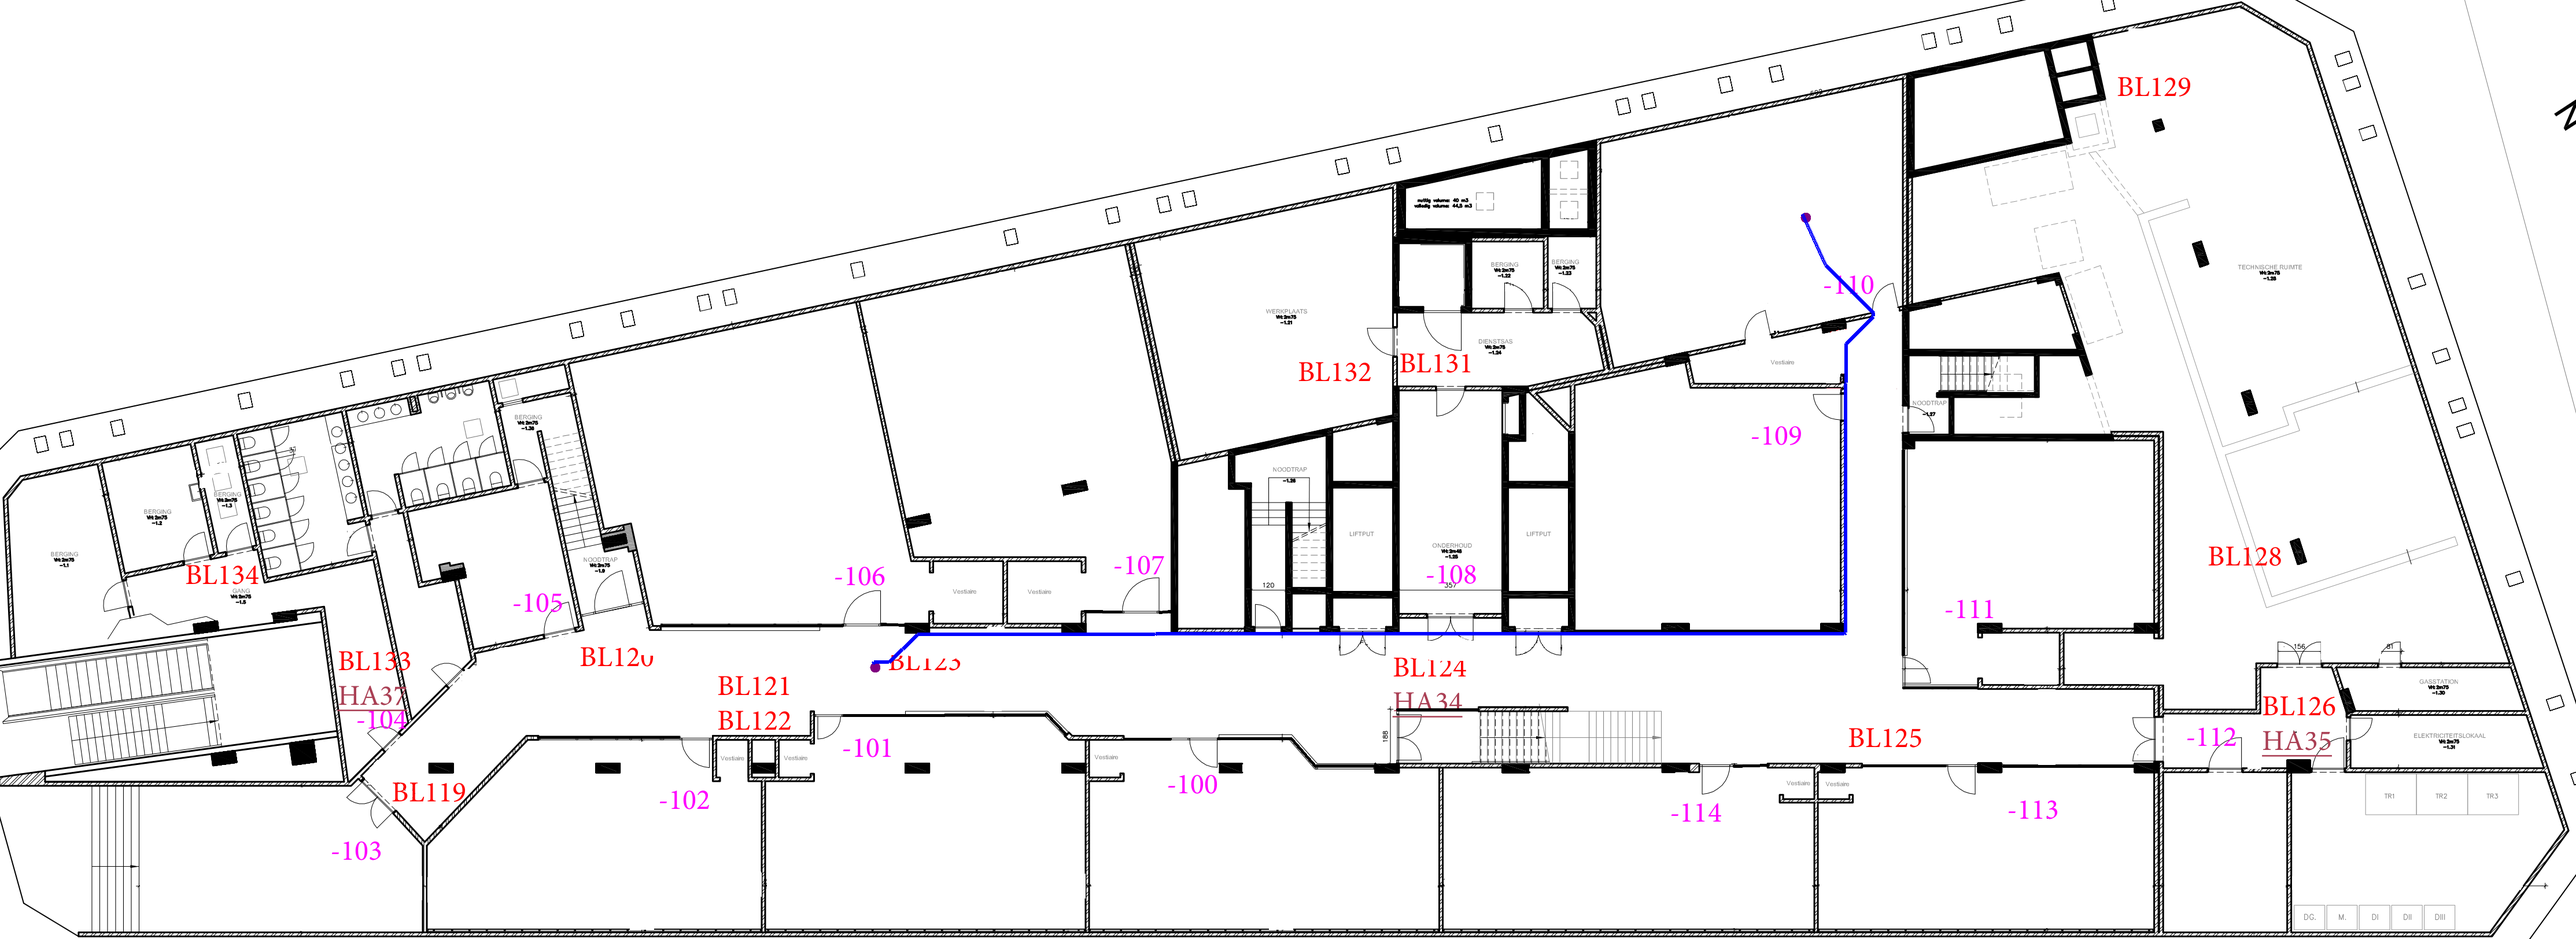
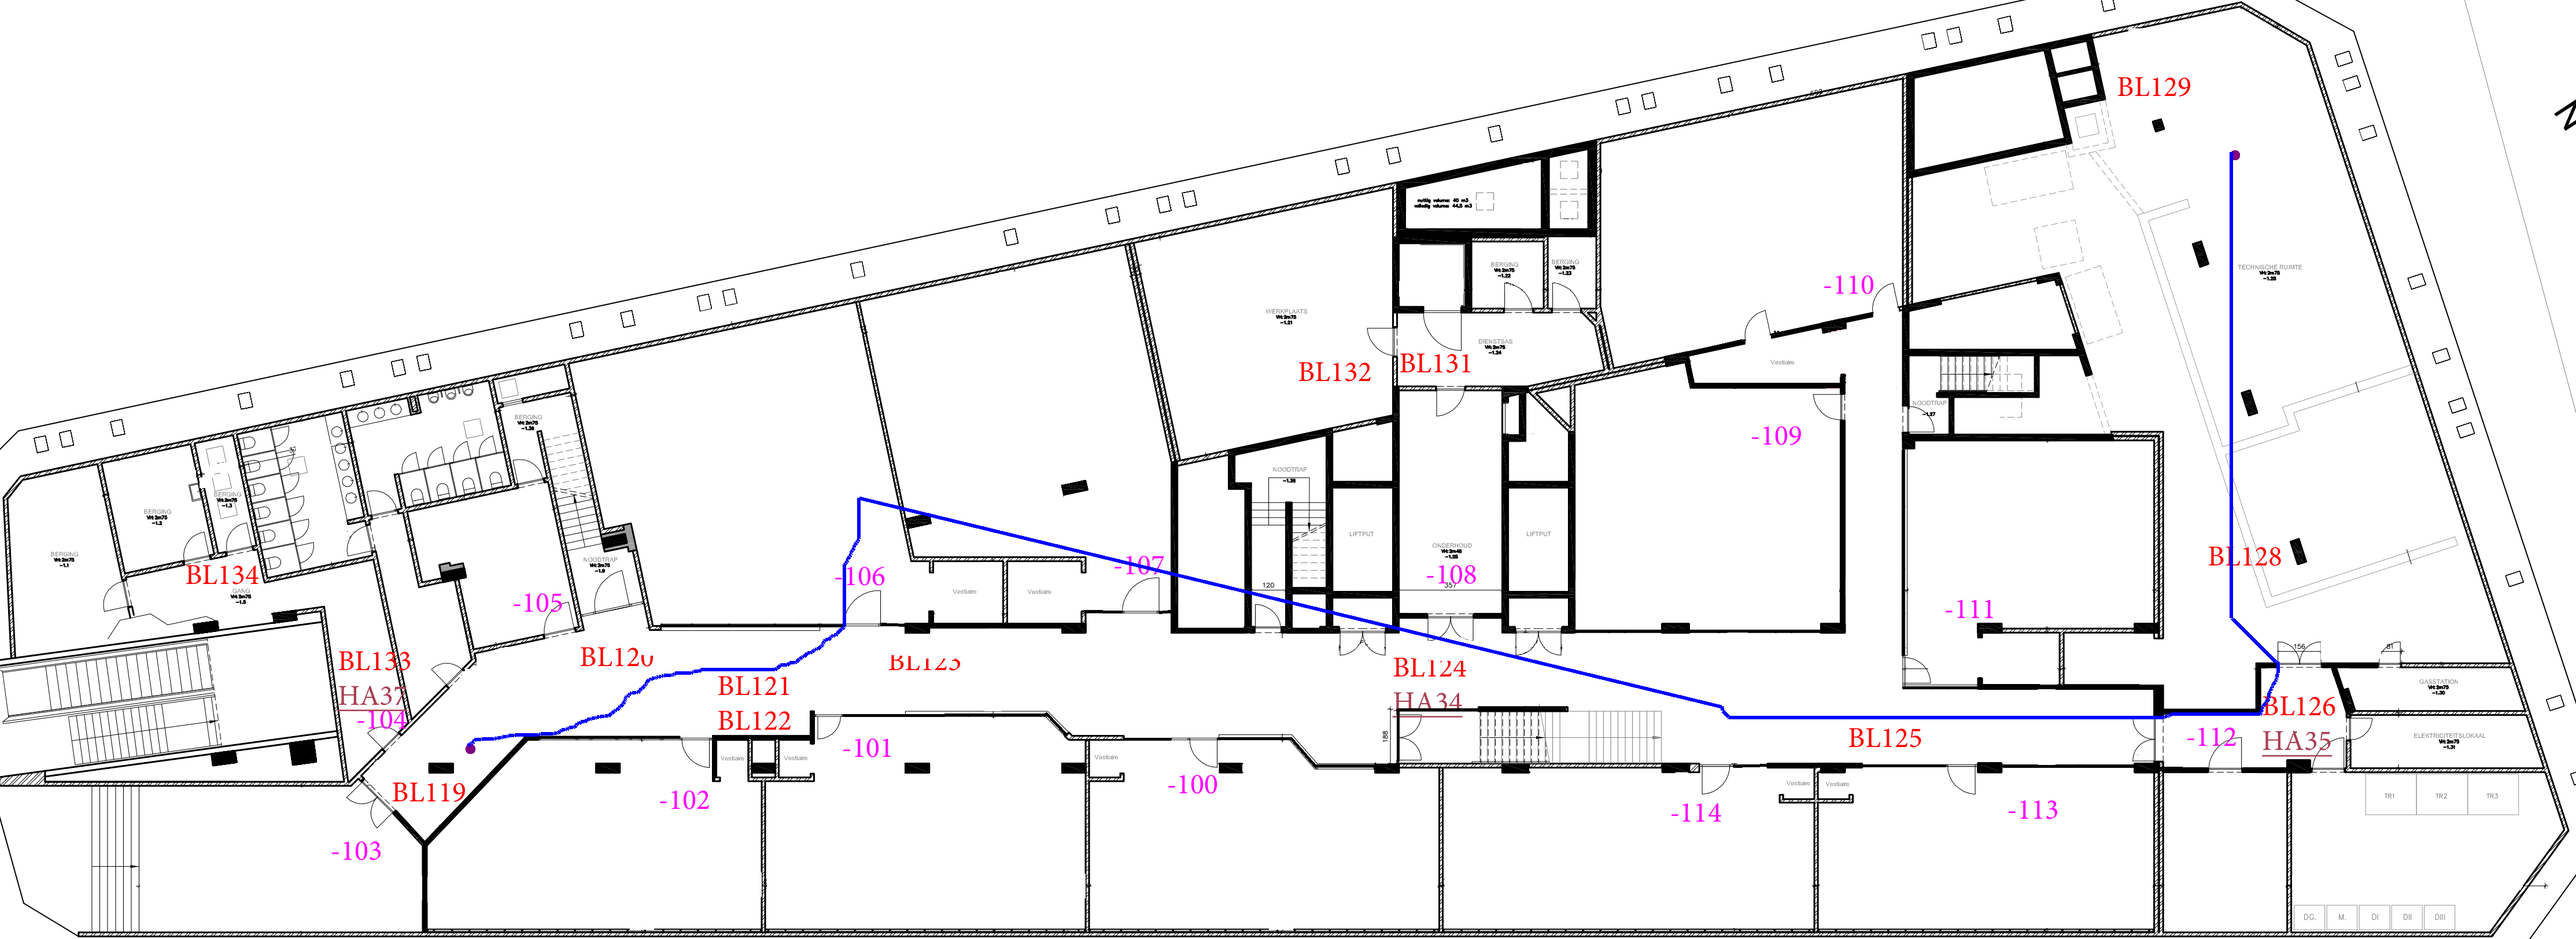
all done before room connection

diff --git a/ui/lib/Pages/Floorplan/FloorplanImage.dart b/ui/lib/Pages/Floorplan/FloorplanImage.dart
@@ -10,6 +10,7 @@ import '../../models/floorplan.dart';
 import '../../services/floorplanservice.dart';
 import '../StateHandler/StateHandler.dart';
 
+//TODO: make it so that the image doesnt always need to reload
 class FloorplanImage extends StatefulWidget {
   final String hospitalName;
   final int floorNumber;
@@ -32,17 +33,15 @@ class FloorplanImage extends StatefulWidget {
   @override
   _FloorplanImageState createState() => _FloorplanImageState();
 }
+
 class _FloorplanImageState extends State<FloorplanImage> {
-  List<Point> _path = [];
-  Point? _startPoint;
-  Point? _endPoint;
 
   Future<void> _fetchPath(Point start, Point end) async{
+    ScaffoldMessenger.of(context).showSnackBar(
+        SnackBar(content: Text('Fetching path...'), backgroundColor: Colors.green, duration: Duration(seconds: 5),)
+    );
     final response = await PathService.getPath(start, end, widget.hospitalName, widget.floorNumber );
    widget.onPathUpdated(response,widget.startPoint, widget.endPoint);
-   /* setState(() {
-      _path = response;
-    });*/
   }
 
   void _handleTap(TapDownDetails details){
@@ -85,7 +84,7 @@ class _FloorplanImageState extends State<FloorplanImage> {
       });
     }*/
   }
-  
+
   Future<ui.Image> _loadImage(Uint8List imageData) async {
     final Completer<ui.Image> completer = Completer();
     ui.decodeImageFromList(imageData, (ui.Image img) {

diff --git a/ui/lib/Pages/Users/RegisterScreen.dart b/ui/lib/Pages/Users/RegisterScreen.dart
@@ -58,13 +58,13 @@ class _RegisterScreenState extends State<RegisterScreen> {
 
   @override
   Widget build(BuildContext context) {
-    return MainScaffold(
-      body: Padding(
+    return Scaffold(
+      body: SingleChildScrollView(
         padding: const EdgeInsets.all(20.0),
         child: Column(
           mainAxisAlignment: MainAxisAlignment.start,
           children: <Widget>[
-            SizedBox(height: 80),
+            SizedBox(height: 40),
             Text(
               'Register in',
               style: TextStyle(

diff --git a/ui/lib/Pages/Users/UserProfileScreen.dart b/ui/lib/Pages/Users/UserProfileScreen.dart
@@ -99,7 +99,7 @@ class _UserProfileScreenState extends State<UserProfileScreen> {
           } else if (!snapshot.hasData) {
             return Center(child: Text('No user data found'));
           } else {
-            return Padding(
+            return SingleChildScrollView(
               padding: const EdgeInsets.all(20.0),
               child: Form(
                 key: _formKey,

diff --git a/ui/lib/Pages/Floorplan/RoutePainter/PathPainter.dart b/ui/lib/Pages/Floorplan/RoutePainter/PathPainter.dart
@@ -38,7 +38,7 @@ class PathPainter extends CustomPainter {
 
     canvas.drawPath(pathToDraw, paint);
     
-    // Draw start and end points
+    //TODO draw start and end points
     final pointPaint = Paint()
       ..color = Colors.purple
       ..style = PaintingStyle.fill;

diff --git a/Domain/AStarAlgorithm/AStarBidirectional.cs b/Domain/AStarAlgorithm/AStarBidirectional.cs
@@ -1,0 +1,129 @@
+using System.Collections.Concurrent;
+
+namespace Domain.AStarAlgorithm;
+
+public class AStarBidirectional
+{
+
+public static List<Point> FindPathBidirectional(Point start, Point end, HashSet<Point> walkablePoints)
+{
+    if (!walkablePoints.Contains(start) || !walkablePoints.Contains(end))
+    {
+        Console.WriteLine("Start or end point is not walkable.");
+        return new List<Point>();
+    }
+
+        var openSetStart = new PriorityQueue<Node, double>();
+        var openSetEnd = new PriorityQueue<Node, double>();
+        var nodeDictionary = walkablePoints.ToDictionary(p => p, p => new Node(p));
+        var closedSetStart = new HashSet<Node>();
+        var closedSetEnd = new HashSet<Node>();
+
+        var startNode = nodeDictionary[start];
+        var endNode = nodeDictionary[end];
+        startNode.GCost = 0;
+        startNode.HCost = GetDistance(start, end);
+        endNode.GCost = 0;
+        endNode.HCost = GetDistance(end, start);
+        openSetStart.Enqueue(startNode, startNode.FCost);
+        openSetEnd.Enqueue(endNode, endNode.FCost);
+
+        int iterationCount = 0;
+        const int maxIterations = 7000000;
+
+        Console.WriteLine("Start bidirectional pathfinding...");
+        while (openSetStart.Count > 0 && openSetEnd.Count > 0)
+        {
+            iterationCount++;
+            if (iterationCount > maxIterations)
+            {
+                Console.WriteLine("Exceeded maximum iterations, breaking out of loop.");
+                break;
+            }
+
+            var currentNodeStart = openSetStart.Dequeue();
+            var currentNodeEnd = openSetEnd.Dequeue();
+
+            if (closedSetEnd.Contains(currentNodeStart) || closedSetStart.Contains(currentNodeEnd))
+            {
+                Console.WriteLine("Path found.");
+                return RetracePathBidirectional(nodeDictionary[start], nodeDictionary[end], currentNodeStart, currentNodeEnd);
+            }
+
+            closedSetStart.Add(currentNodeStart);
+            closedSetEnd.Add(currentNodeEnd);
+
+            Parallel.Invoke(
+                () => ProcessNeighbors(currentNodeStart, nodeDictionary, closedSetStart, openSetStart, end),
+                () => ProcessNeighbors(currentNodeEnd, nodeDictionary, closedSetEnd, openSetEnd, start)
+            );
+        }
+
+        Console.WriteLine("No path found.");
+        return new List<Point>();
+    }
+
+    private static void ProcessNeighbors(Node currentNode, Dictionary<Point, Node> nodeDictionary, HashSet<Node> closedSet, PriorityQueue<Node, double> openSet, Point target)
+    {
+        foreach (var neighbor in GetNeighbors(currentNode.Point, nodeDictionary))
+        {
+            if (closedSet.Contains(neighbor)) continue;
+
+            var tentativeGCost = currentNode.GCost + GetDistance(currentNode.Point, neighbor.Point);
+
+            if (tentativeGCost < neighbor.GCost)
+            {
+                neighbor.GCost = tentativeGCost;
+                neighbor.HCost = GetDistance(neighbor.Point, target);
+                neighbor.Parent = currentNode;
+                openSet.Enqueue(neighbor, neighbor.FCost);
+            }
+        }
+    }
+
+    private static IEnumerable<Node> GetNeighbors(Point point, Dictionary<Point, Node> nodeDictionary)
+    {
+        var directions = new List<(double, double)>
+        {
+            (-1, 0), (1, 0), (0, -1), (0, 1),
+            (-1, -1), (1, -1), (-1, 1), (1, 1)
+        };
+
+        foreach (var (dx, dy) in directions)
+        {
+            var neighborPoint = new Point(point.XWidth + dx, point.YHeight + dy);
+            if (nodeDictionary.TryGetValue(neighborPoint, out var neighbor))
+            {
+                yield return neighbor;
+            }
+        }
+    }
+
+    private static double GetDistance(Point a, Point b)
+    {
+        return Math.Abs(a.XWidth - b.XWidth) + Math.Abs(a.YHeight - b.YHeight); // Manhattan distance
+    }
+
+    private static List<Point> RetracePathBidirectional(Node startNode, Node endNode, Node meetingNodeStart, Node meetingNodeEnd)
+    {
+        var path = new List<Point>();
+        var currentNode = meetingNodeStart;
+
+        while (currentNode != null && !currentNode.Equals(startNode))
+        {
+            path.Add(currentNode.Point);
+            currentNode = currentNode.Parent;
+        }
+
+        path.Reverse();
+        currentNode = meetingNodeEnd.Parent;
+
+        while (currentNode != null && !currentNode.Equals(endNode))
+        {
+            path.Add(currentNode.Point);
+            currentNode = currentNode.Parent;
+        }
+
+        return path;
+    }
+}

diff --git a/PathfindingConsole/Program.cs b/PathfindingConsole/Program.cs
@@ -5,7 +5,7 @@ using Domain;
 using Domain.AStarAlgorithm;
 using PathfindingConsole;
 
-string imagePath = @"C:\Users\peril\Documents\KDG4\TheLab\Project\VitalRoutes\BackendApi\Floorplans\UZ_Groenplaats\floor_minus1C.png";
+string imagePath = @"C:\Users\peril\Documents\KDG4\TheLab\Project\VitalRoutes\BackendApi\Floorplans\UZ_Groenplaats\floor_minus1.png";
 
 //string imagePath = @"C:\Users\peril\Documents\KDG4\TheLab\Project\VitalRoutes\BackendApi\Floorplans\UZ_Groenplaats\floor_minus1C.png";
 /*
@@ -15,8 +15,15 @@ string imagePath = @"C:\Users\peril\Documents\KDG4\TheLab\Project\VitalRoutes\Ba
  * (1507.0,1148.0),room -100 (2096.0,1466.0), room -111 (3427.0,1031.0), room -110 (3116.0,370.0), room -109 (2978.0,840.0)
  *  BL128: 3983.0 1058.0
  */
-Point startCoord = new Point(799.99, 1275.94);
-Point endCoord = new Point(3113.0, 1230.40);
+
+
+
+Stopwatch stopwatch = new Stopwatch();
+stopwatch.Start();
+
+Point startCoord = new Point(807.0, 1289.0);
+Point endCoord = new Point(3858.0, 262.0);
+
 var (start, end, walkablePoints) = FloorplanAnalyzer.GetWalkablePoints(imagePath, startCoord,endCoord);
 if (walkablePoints == null || walkablePoints.Count == 0)
 {
@@ -24,25 +31,23 @@ if (walkablePoints == null || walkablePoints.Count == 0)
     return;
 }
 
-var floorplan = new Floorplan("Kelder", 1, "1:100","floor_minus1C.png" ) 
+var floorplan = new Floorplan("Kelder", 1, "1:100","floor_minus1.png" ) 
 {
     Points = walkablePoints
 };
 
-
 Console.WriteLine($"Start point: ({start.XWidth}, {start.YHeight})");
 Console.WriteLine($"End point: ({end.XWidth}, {end.YHeight})");
-Stopwatch stopwatch = new Stopwatch();
-stopwatch.Start();
 
-var path = AStarPathfinding.FindPath( start, end, walkablePoints);
+//var path = AStarPathfinding.FindPath( start, end, walkablePoints);
+var pathBidirectional = AStarBidirectional.FindPathBidirectional(start, end, walkablePoints);
 
 
-// Draw the path on the floorplan image
-FloorplanVisualizer.DrawFloorplanWithPath(floorplan, path, start, end, imagePath);
 stopwatch.Stop();
 TimeSpan ts = stopwatch.Elapsed;
 string elapsedTime = String.Format("{0:00}:{1:00}:{2:00}.{3:00}",
     ts.Hours, ts.Minutes, ts.Seconds,
     ts.Milliseconds / 10);
 Console.WriteLine("RunTime " + elapsedTime);
+// Draw the path on the floorplan image
+FloorplanVisualizer.DrawFloorplanWithPath(floorplan, pathBidirectional, start, end, imagePath);

diff --git a/Domain/AStarAlgorithm/AStarPathFinding.cs b/Domain/AStarAlgorithm/AStarPathFinding.cs
@@ -1,4 +1,6 @@
-namespace Domain.AStarAlgorithm;
+using System.Collections.Concurrent;
+
+namespace Domain.AStarAlgorithm;
 
 public class AStarPathfinding
 {
@@ -7,7 +9,7 @@ public class AStarPathfinding
      *  zal het geen bottlenecks veroorzaken.
      *  Zo blijft de main thread vrij voor andere taken.
      */
-    public static List<Point> FindPath( Point start, Point end, HashSet<Point> walkablePoints)
+ public static List<Point> FindPath( Point start, Point end, HashSet<Point> walkablePoints)
     {
         if (!walkablePoints.Contains(start) || !walkablePoints.Contains(end))
         {
@@ -90,7 +92,12 @@ public class AStarPathfinding
 
     private static double GetDistance(Point a, Point b)
     {
-        return Math.Sqrt(Math.Pow(a.XWidth - b.XWidth, 2) + Math.Pow(a.YHeight - b.YHeight, 2));
+        //Van BL119 naar BL129 Kelder
+        //Manhattan distance 15.54 sec POLSKA GUROM
+        return Math.Abs(a.XWidth - b.XWidth) + Math.Abs(a.YHeight - b.YHeight);
+        
+        // Euclidean distance 27.2sec
+        //return Math.Sqrt(Math.Pow(a.XWidth - b.XWidth, 2) + Math.Pow(a.YHeight - b.YHeight, 2));
     }
 
     private static List<Point> RetracePath(Node startNode, Node endNode)

diff --git a/Domain/AStarAlgorithm/FloorplanAnalyzer.cs b/Domain/AStarAlgorithm/FloorplanAnalyzer.cs
@@ -27,10 +27,8 @@ public class FloorplanAnalyzer
                     if (!IsBlackWall(pixel))
                     {
                         var point = new Point(x, y);
-                        lock (walkablePoints)
-                        {
-                            walkablePoints.Add(point);
-                        }
+                        walkablePoints.Add(point);
+                       
 
                         if (Math.Abs(x - startCoords.XWidth) < 1e-10 && Math.Abs(y - startCoords.YHeight) < 1e-10) startPoint = point;
                         if (Math.Abs(x - endCoords.XWidth) < 1e-10 && Math.Abs(y - endCoords.YHeight) < 1e-10) endPoint = point;
@@ -50,7 +48,7 @@ public class FloorplanAnalyzer
         }
         Console.WriteLine($"Total walkable points: {walkablePoints.Count}");
 
-        return (startPoint, endPoint, walkablePoints.ToHashSet());
+        return (startPoint, endPoint, new HashSet<Point>(walkablePoints) ); //walkablePoints.ToHashSet()
     }
 
     public static bool IsBlackWall(Rgba32 pixel)

diff --git a/BL/PathManager.cs b/BL/PathManager.cs
@@ -16,7 +16,6 @@ public class PathManager
         _floorplanRepository = floorplanRepository;
     }
 
-    //TODO fix dto
     public async Task<List<Point>> FindPath(Point start, Point end, String folderPath, String hospitalName, int floorNumber)
     {
         //Getting the image path
